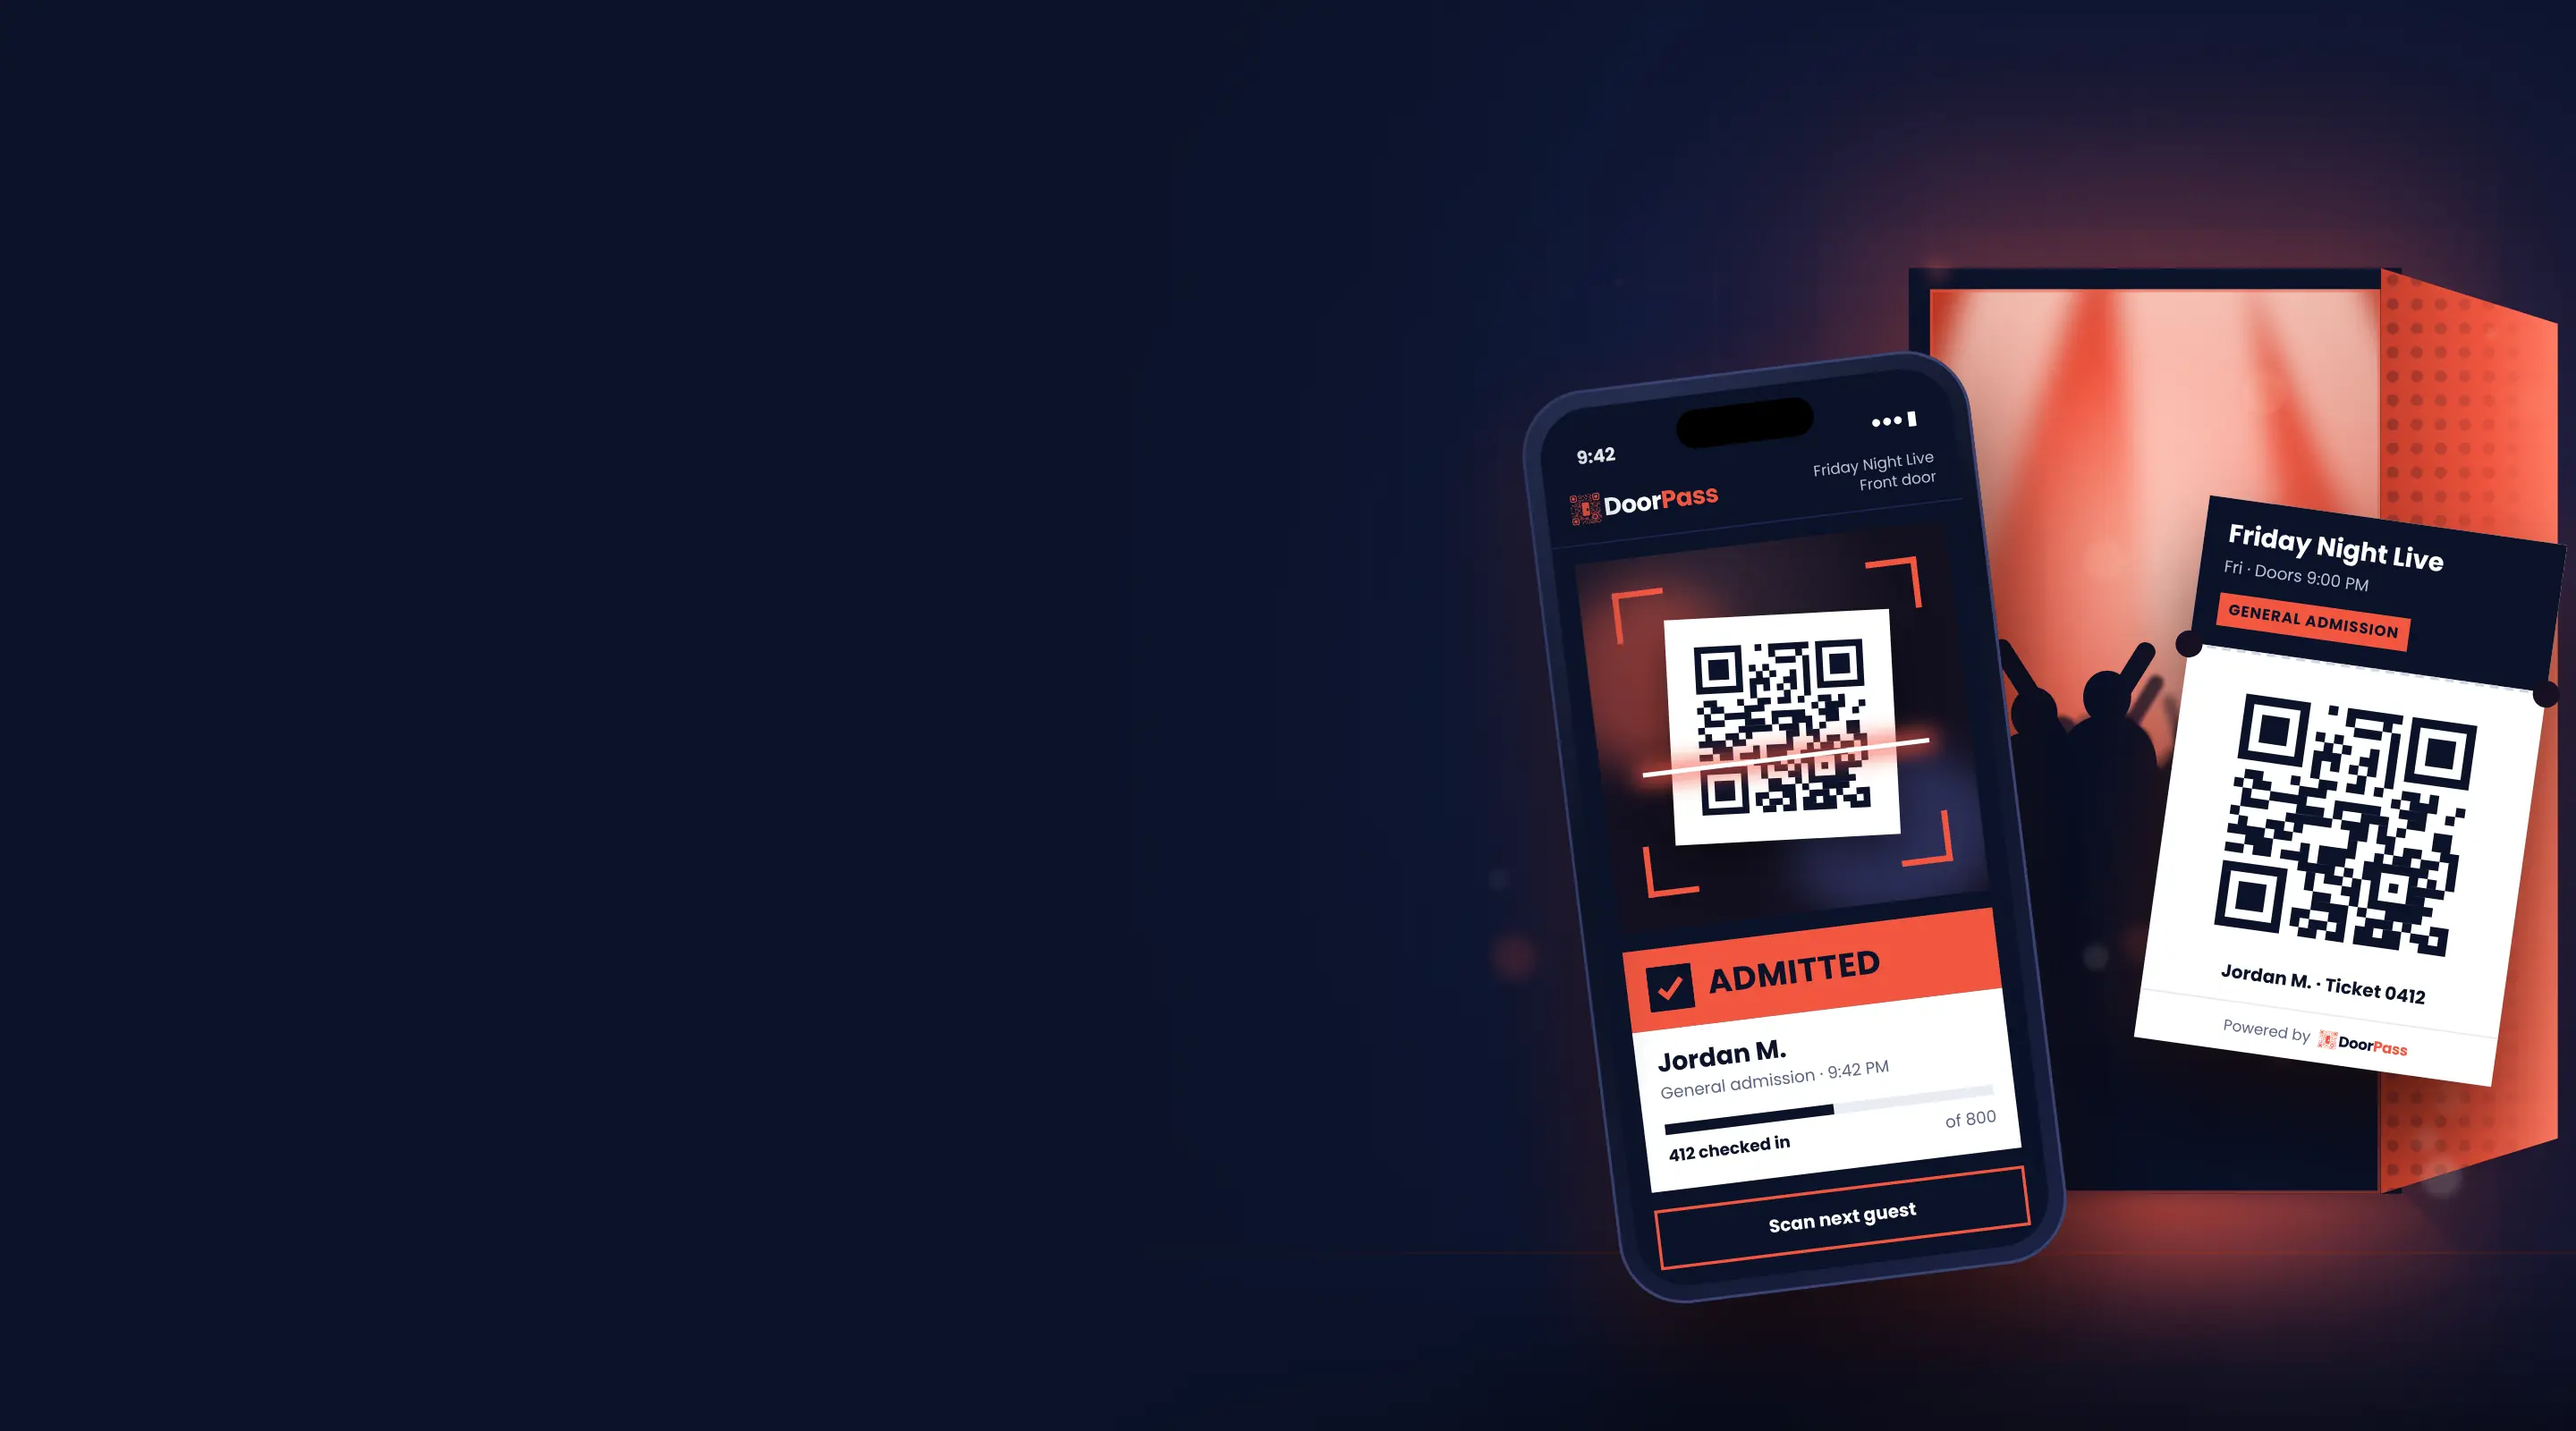
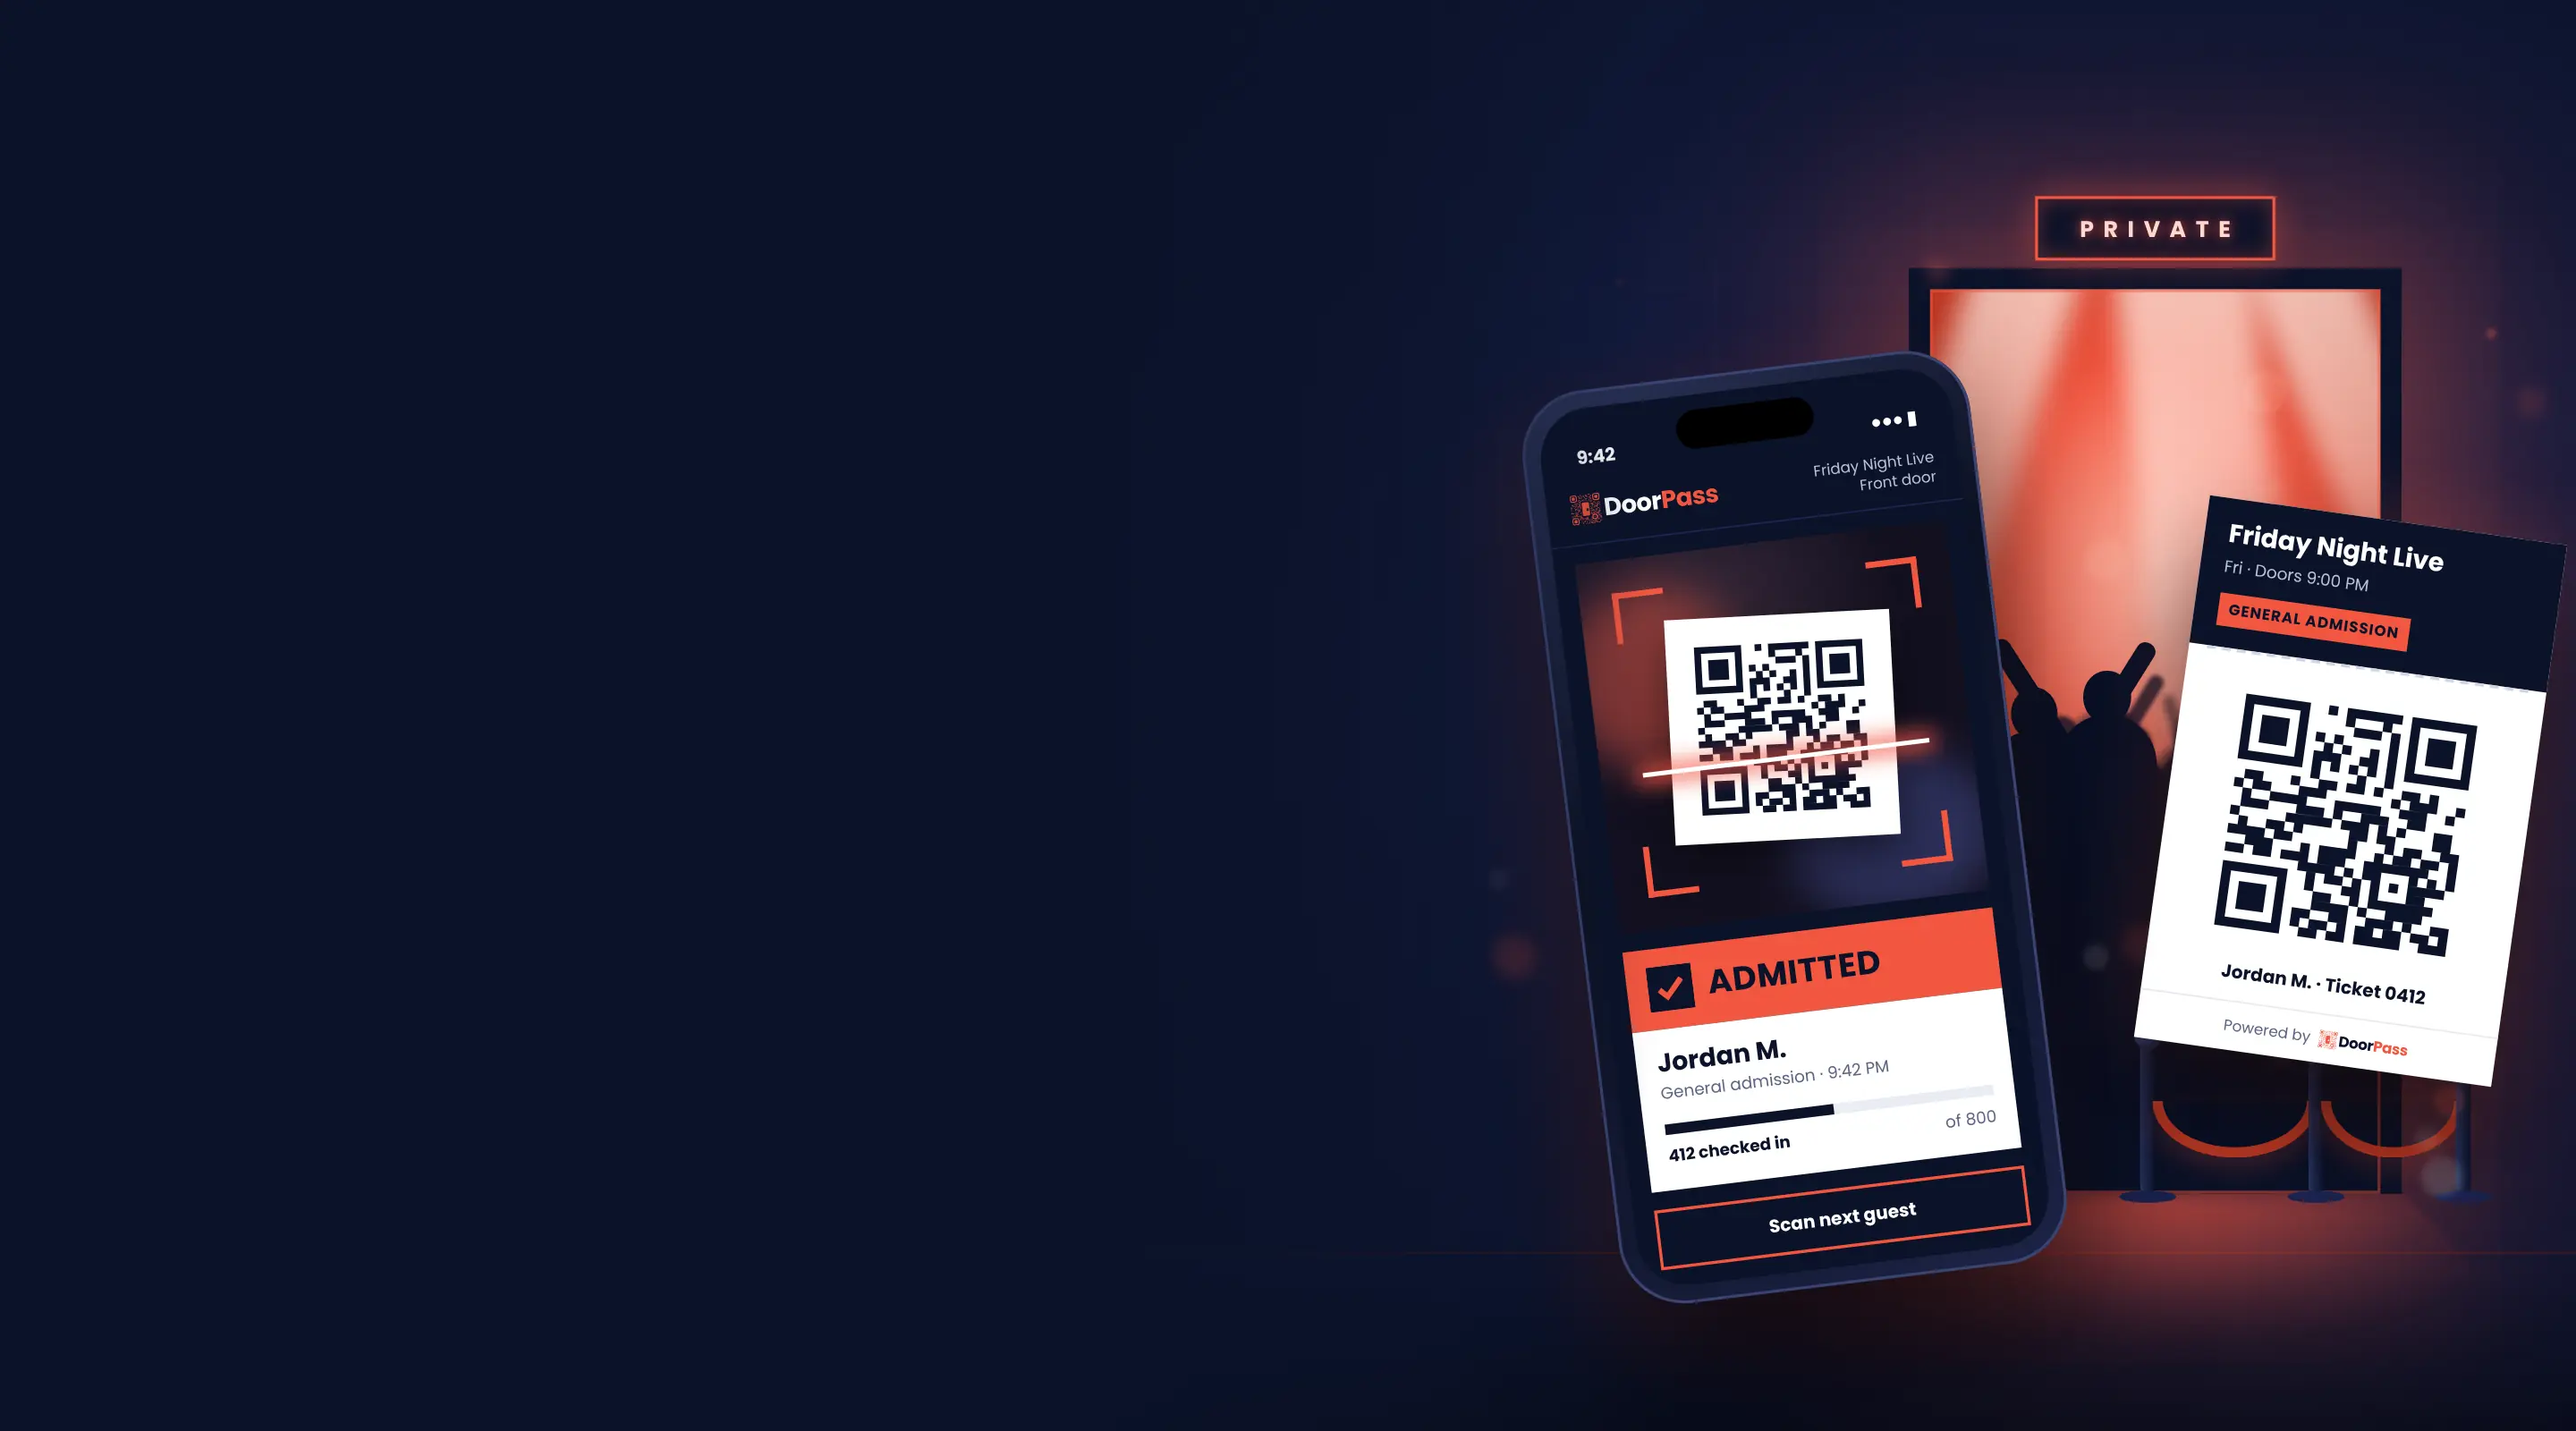
Hero: private-venue door, subtle animated party lights
- Remove the dotted door panel and the ticket's perforation dots
- Add a lit PRIVATE sign and velvet rope at the door
- CSS light layer over the image: doorway beams, neon flicker, floor pulse,
  twinkles; off for prefers-reduced-motion
- Desktop art now scales to fit (never cropped) at any screen size

Claude-Session: https://claude.ai/code/session_01M7Asd6NsJf8wV6D7F685uX

diff --git a/public/css/styles.css b/public/css/styles.css
@@ -65,16 +65,45 @@ ul, ol { margin: 0; padding: 0; list-style: none; }
 .fine { font-size: .95rem; color: var(--muted-on-navy); }
 @media (min-width: 60rem) { .hero-grid { grid-template-columns: 1.25fr .75fr; } }
 
-/* Hero art: one picture. Phones get the phone/ticket/door crop under the copy; from 60rem it fills the
-   hero behind the copy (the left of the image is already faded to navy, so the text stays readable). */
-.hero-art { display: block; justify-self: center; width: min(100%, 30rem); }
+/* Hero art: one picture plus a light layer (.fx). Phones get the phone/ticket/door crop under the copy; from 60rem
+   it sits behind the copy, scaled to fit the hero (never cropped) (the left of the image is already faded to navy, so the text stays readable).
+   .fx is laid out in the full 1440 x 800 scene's coordinates, so its lights line up with the picture at any size. */
+.hero-art { position: relative; overflow: hidden; justify-self: center; width: min(100%, 30rem); }
+.hero-art picture { display: block; }
 .hero-art img { width: 100%; height: auto; -webkit-mask-image: radial-gradient(75% 70% at 55% 50%, var(--navy) 60%, transparent 100%); mask-image: radial-gradient(75% 70% at 55% 50%, var(--navy) 60%, transparent 100%); }
+.fx { position: absolute; left: -111.76%; top: -8.571%; width: 211.76%; height: 114.29%; pointer-events: none; mix-blend-mode: screen; }
 @media (min-width: 60rem) {
   .hero { position: relative; min-height: min(52vw, 46rem); display: flex; align-items: center; }
   .hero-copy { position: relative; z-index: 1; }
-  .hero-art { position: absolute; inset: 0; width: 100%; height: 100%; }
-  .hero-art img { width: 100%; height: 100%; object-fit: cover; object-position: right center; -webkit-mask-image: none; mask-image: none; }
+  .hero-art { position: absolute; inset: 0; width: 100%; height: 100%; container-type: size; }
+  .hero-art picture { height: 100%; }
+  .hero-art img { width: 100%; height: 100%; object-fit: contain; object-position: right center; -webkit-mask-image: none; mask-image: none; }
+  .fx { left: auto; right: 0; top: 50%; width: min(100cqw, 180cqh); height: auto; aspect-ratio: 9 / 5; translate: 0 -50%; }
 }
+.fx > * { position: absolute; display: block; }
+/* Stage beams inside the open doorway, clipped to the part not covered by the phone and ticket */
+.fx-door { left: 76.39%; top: 20.25%; width: 16.11%; height: 27.25%; overflow: hidden; clip-path: polygon(1.7% 24.8%, 0 0, 100% 0, 100% 55%, 58.6% 52.3%, 52.6% 100%, 6.9% 100%); }
+.fx-door i { position: absolute; top: -15%; width: 26%; height: 190%; transform-origin: 50% 0; background: linear-gradient(rgba(255, 236, 228, .5), transparent 70%); filter: blur(5px); animation: beam 9s ease-in-out infinite alternate; }
+.fx-door i:nth-child(1) { left: 6%; animation-duration: 8s; }
+.fx-door i:nth-child(2) { left: 38%; animation-duration: 11s; animation-delay: -4s; background: linear-gradient(rgba(242, 85, 63, .55), transparent 70%); }
+.fx-door i:nth-child(3) { left: 70%; animation-duration: 9.5s; animation-delay: -7s; }
+@keyframes beam { from { rotate: -16deg; opacity: .25; } 50% { opacity: .8; } to { rotate: 16deg; opacity: .35; } }
+/* Neon sign: steady glow with an occasional flicker */
+.fx-sign { left: 77.64%; top: 11.5%; width: 12.01%; height: 8.63%; background: radial-gradient(closest-side, rgba(242, 85, 63, .45), transparent); animation: neon 9s linear infinite; }
+@keyframes neon { 0%, 70%, 72%, 74%, 100% { opacity: .9; } 71%, 73% { opacity: .15; } }
+/* Light spilling out the door onto the floor, pulsing gently like music inside */
+.fx-spill { left: 75%; top: 80%; width: 23.6%; height: 18.75%; background: radial-gradient(closest-side, rgba(242, 85, 63, .35), transparent); animation: thump 2.4s ease-in-out infinite alternate; }
+@keyframes thump { from { opacity: .25; } to { opacity: .85; } }
+/* Twinkles: small party lights that come and go */
+.fx-t { aspect-ratio: 1; width: .8%; background: radial-gradient(closest-side, rgba(255, 220, 210, .9), rgba(242, 85, 63, .35) 55%, transparent); opacity: 0; animation: twinkle 7s ease-in-out infinite; }
+.fx-t:nth-of-type(3) { left: 69.4%; top: 11.3%; animation-delay: -1s; }
+.fx-t:nth-of-type(4) { left: 96.2%; top: 15%; width: 1.1%; animation-duration: 6s; animation-delay: -3s; }
+.fx-t:nth-of-type(5) { left: 97.2%; top: 25%; width: .6%; animation-duration: 8s; animation-delay: -5.5s; }
+.fx-t:nth-of-type(6) { left: 55.5%; top: 37.5%; width: .7%; animation-duration: 9s; animation-delay: -2s; }
+.fx-t:nth-of-type(7) { left: 55.6%; top: 70%; width: 1.1%; animation-duration: 6.5s; animation-delay: -4.5s; }
+.fx-t:nth-of-type(8) { left: 95.8%; top: 87.5%; animation-duration: 7.5s; animation-delay: -6s; }
+@keyframes twinkle { 0%, 55%, 100% { opacity: 0; scale: .5; } 72% { opacity: .9; scale: 1; } }
+@media (prefers-reduced-motion: reduce) { .fx { display: none; } }
 @media (prefers-reduced-motion: reduce) { html { scroll-behavior: auto; } }
 
 /* Sections */

diff --git a/public/index.html b/public/index.html
@@ -44,10 +44,13 @@
       </div>
       <p class="fine">Built for venues under 1,000 capacity. Bigger venues get their own server.</p>
     </div>
-    <picture class="hero-art">
-      <source media="(min-width: 60rem)" srcset="/assets/hero/hero-1440.webp 1440w, /assets/hero/hero-2880.webp 2880w" sizes="100vw" width="2880" height="1600">
-      <img src="/assets/hero/hero-mobile-680.webp" srcset="/assets/hero/hero-mobile-680.webp 680w, /assets/hero/hero-mobile-1360.webp 1360w" sizes="(min-width: 60rem) 100vw, 92vw" width="1360" height="1340" fetchpriority="high" decoding="async" alt="A door staff phone running the DoorPass scanner shows Admitted for Jordan M., General admission at 9:42 PM, 412 of 800 checked in, next to the guest's emailed QR ticket and a venue door opening onto the crowd.">
-    </picture>
+    <div class="hero-art">
+      <picture>
+        <source media="(min-width: 60rem)" srcset="/assets/hero/hero-1440.webp 1440w, /assets/hero/hero-2880.webp 2880w" sizes="100vw" width="2880" height="1600">
+        <img src="/assets/hero/hero-mobile-680.webp" srcset="/assets/hero/hero-mobile-680.webp 680w, /assets/hero/hero-mobile-1360.webp 1360w" sizes="(min-width: 60rem) 100vw, 92vw" width="1360" height="1400" fetchpriority="high" decoding="async" alt="A door staff phone running the DoorPass scanner shows Admitted for Jordan M., General admission at 9:42 PM, 412 of 800 checked in, next to the guest's emailed QR ticket and a venue door opening onto the crowd.">
+      </picture>
+      <div class="fx" aria-hidden="true"><div class="fx-door"><i></i><i></i><i></i></div><b class="fx-sign"></b><b class="fx-spill"></b><b class="fx-t"></b><b class="fx-t"></b><b class="fx-t"></b><b class="fx-t"></b><b class="fx-t"></b><b class="fx-t"></b></div>
+    </div>
   </div>
 </section>
 
